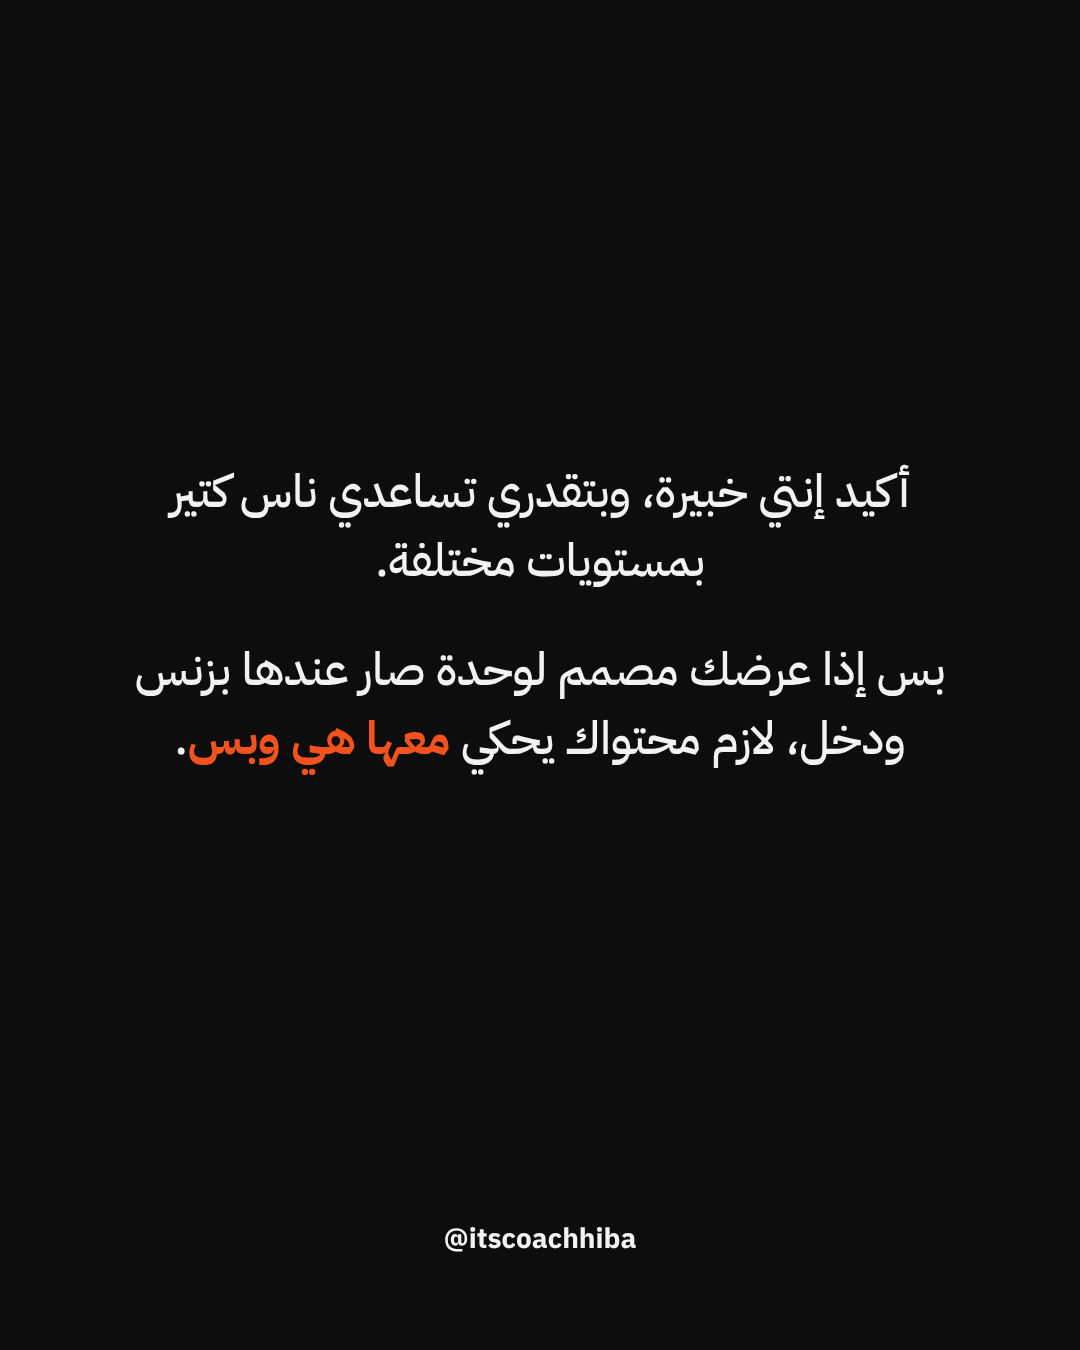
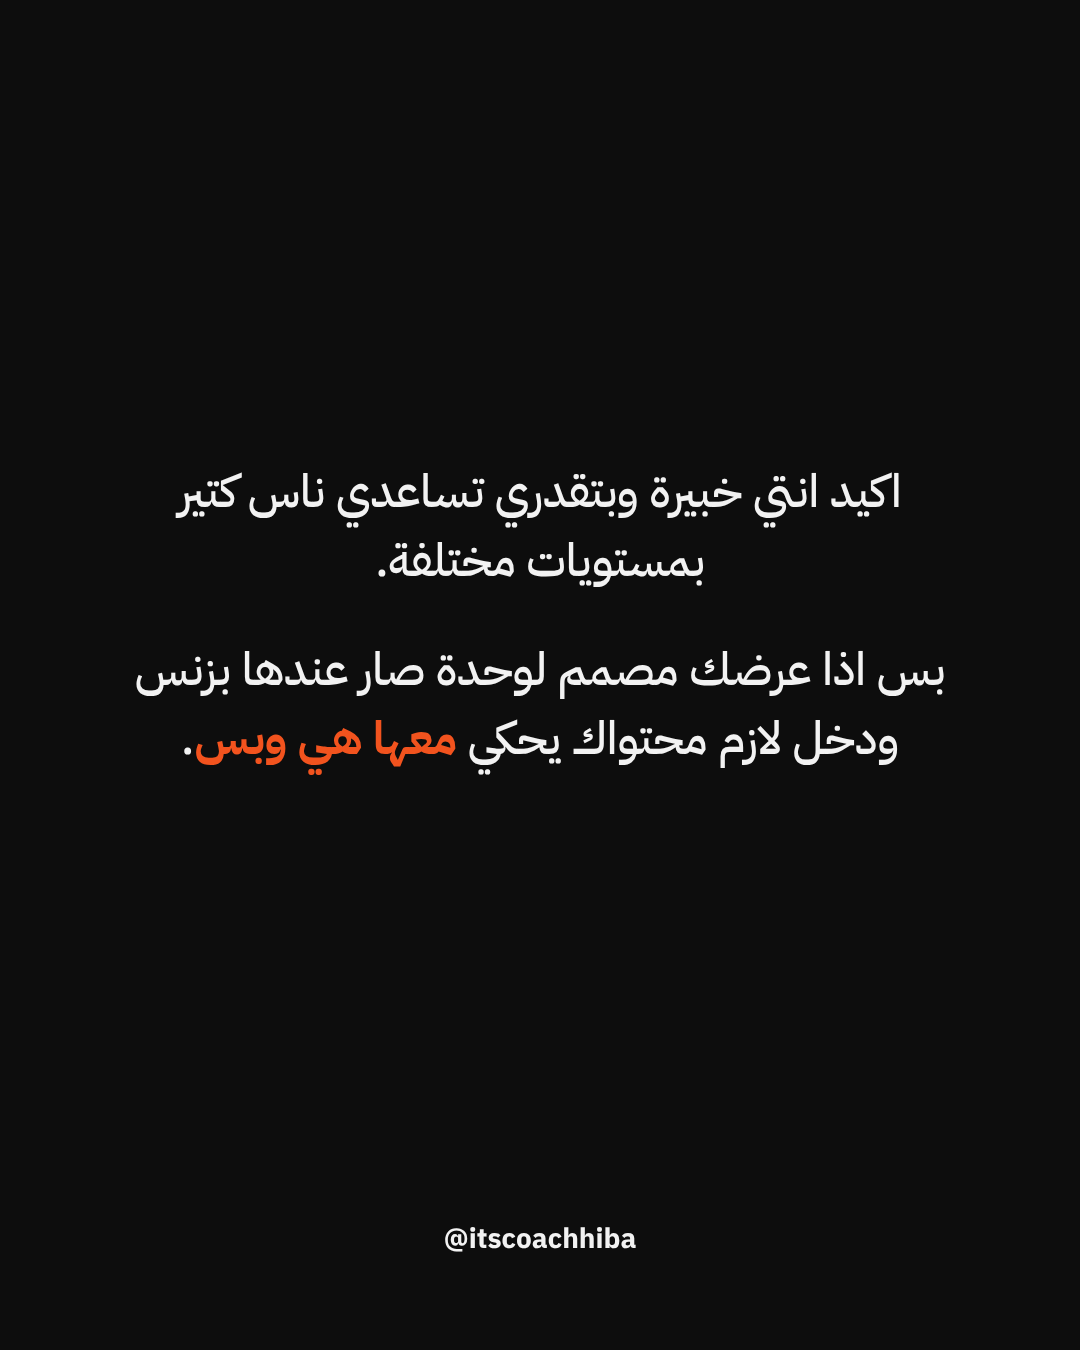
Carousel 20: remove hamza marks on alif and commas
Claude-Session: https://claude.ai/code/session_01Q3F4hydPDiJyjfKYRyCC3U

Changed region(s): [[0.1528, 0.3422, 0.8556, 0.4044], [0.1528, 0.5289, 0.8556, 0.5911]]

diff --git a/carousels/20-cant-afford-it-messaging/carousel.html b/carousels/20-cant-afford-it-messaging/carousel.html
@@ -12,4 +12,4 @@
 .txt b{font-weight:700}
 .txt em{font-style:normal;color:#F2531E;font-weight:700}
 .h{position:absolute;bottom:90px;left:0;right:0;text-align:center;font-weight:700;font-size:28px;color:#f2f2f2;direction:ltr}</style></head><body><section class="slide cover"><img src="cover.jpg"><div class="shade"></div>
-<h1>ليش العملاء اللي بيجوكي دايما بيقولولك <span>«سعرك غالي عليي»</span>؟</h1></section><section class="slide txt"><div class="box"><p>ما في شي أصعب من إنك تحكي مع وحدة باين عليها متحمسة تشتغل معك…</p><p>…وأول ما تقوليلها السعر، بتقلك «ما عندي إمكانية إني ادفع هالمبلغ».</p></div><div class="h">@itscoachhiba</div></section><section class="slide txt"><div class="box"><p>إذا صارت مرة أو مرتين… طبيعي.</p><p>بس إذا صارت كل شوي… بتبلشي تقنعي حالك إنو لازم تنزلي سعرك.</p><p>بس لاحظتي إنك حتى لما بتنزليه… <em>بيضلوا ما يشتروا؟</em></p><p><b>وهاد السبب.</b></p></div><div class="h">@itscoachhiba</div></section><section class="slide txt"><div class="box"><p>إنك تجذبي ناس ما بيقدروا يستثمروا، مش مشكلة بسعرك.</p><p>هي فعليا مشكلة <em>بالـ messaging</em> تبعك، بمحتواكي وببزنسك.</p><p>والرسالة الغلط بتجيبلك العميلات الغلط.</p></div><div class="h">@itscoachhiba</div></section><section class="slide txt"><div class="box"><p>يعني ممكن تكوني عم تعملي محتوى للناس اللي عرضك <em>بيقدر</em> يساعدهم…</p><p>بدل الناس اللي عرضك <em>انعمل إلهم</em>.</p><p>والفرق بين الاتنين كبير كتير.</p></div><div class="h">@itscoachhiba</div></section><section class="slide txt"><div class="box"><p>أكيد إنتي خبيرة، وبتقدري تساعدي ناس كتير بمستويات مختلفة.</p><p>بس إذا عرضك مصمم لوحدة صار عندها بزنس ودخل، لازم محتواك يحكي <em>معها هي وبس</em>.</p></div><div class="h">@itscoachhiba</div></section><section class="slide txt"><div class="box"><p>أول ما تفكري «ما بدي خسر حدا»… خسرتي.</p><p>لأنو رسالتك بتصير تحكي مع <em>الكل</em>:</p><p>اللي لسا مبلشة. اللي صار عندها خبرة. اللي جاهزة تستثمر. واللي لأ.</p></div><div class="h">@itscoachhiba</div></section><section class="slide txt"><div class="box"><p>هاد اللي ما بتنتبهله أغلب الأشخاص اللي عندهم خدمات أو منتجات رقمية…</p><p>العميلة اللي بدك ياها مشاكلها وأولوياتها وأهدافها <em>غير تماما</em> عن وحدة لسا عم تبلش.</p><p>وإذا رسالتك ما بتحكي عن <em>واقعها هي</em>، رح تضلي تجذبي الناس الغلط.</p></div><div class="h">@itscoachhiba</div></section><section class="slide txt"><div class="box"><p>الرسالة الواضحة والـ messaging الصح هي <em>أول شي</em> لازم تبلشي تغيريه.</p><p>وإذا بدك تعرفي كيف بالزبط بتقدري تبني براند شخصي قوي وتزيدي دخلك،</p><p>علقي بكلمة <em>«مكالمة»</em> لتحجزي مكالمة استشارية مجانية.</p></div><div class="h">@itscoachhiba</div></section></body></html>
+<h1>ليش العملاء اللي بيجوكي دايما بيقولولك <span>«سعرك غالي عليي»</span>؟</h1></section><section class="slide txt"><div class="box"><p>ما في شي اصعب من انك تحكي مع وحدة باين عليها متحمسة تشتغل معك…</p><p>…واول ما تقوليلها السعر بتقلك «ما عندي امكانية اني ادفع هالمبلغ».</p></div><div class="h">@itscoachhiba</div></section><section class="slide txt"><div class="box"><p>اذا صارت مرة او مرتين… طبيعي.</p><p>بس اذا صارت كل شوي… بتبلشي تقنعي حالك انو لازم تنزلي سعرك.</p><p>بس لاحظتي انك حتى لما بتنزليه… <em>بيضلوا ما يشتروا؟</em></p><p><b>وهاد السبب.</b></p></div><div class="h">@itscoachhiba</div></section><section class="slide txt"><div class="box"><p>انك تجذبي ناس ما بيقدروا يستثمروا مش مشكلة بسعرك.</p><p>هي فعليا مشكلة <em>بالـ messaging</em> تبعك بمحتواكي وببزنسك.</p><p>والرسالة الغلط بتجيبلك العميلات الغلط.</p></div><div class="h">@itscoachhiba</div></section><section class="slide txt"><div class="box"><p>يعني ممكن تكوني عم تعملي محتوى للناس اللي عرضك <em>بيقدر</em> يساعدهم…</p><p>بدل الناس اللي عرضك <em>انعمل الهم</em>.</p><p>والفرق بين الاتنين كبير كتير.</p></div><div class="h">@itscoachhiba</div></section><section class="slide txt"><div class="box"><p>اكيد انتي خبيرة وبتقدري تساعدي ناس كتير بمستويات مختلفة.</p><p>بس اذا عرضك مصمم لوحدة صار عندها بزنس ودخل لازم محتواك يحكي <em>معها هي وبس</em>.</p></div><div class="h">@itscoachhiba</div></section><section class="slide txt"><div class="box"><p>اول ما تفكري «ما بدي خسر حدا»… خسرتي.</p><p>لانو رسالتك بتصير تحكي مع <em>الكل</em>:</p><p>اللي لسا مبلشة. اللي صار عندها خبرة. اللي جاهزة تستثمر. واللي لا.</p></div><div class="h">@itscoachhiba</div></section><section class="slide txt"><div class="box"><p>هاد اللي ما بتنتبهله اغلب الاشخاص اللي عندهم خدمات او منتجات رقمية…</p><p>العميلة اللي بدك ياها مشاكلها واولوياتها واهدافها <em>غير تماما</em> عن وحدة لسا عم تبلش.</p><p>واذا رسالتك ما بتحكي عن <em>واقعها هي</em> رح تضلي تجذبي الناس الغلط.</p></div><div class="h">@itscoachhiba</div></section><section class="slide txt"><div class="box"><p>الرسالة الواضحة والـ messaging الصح هي <em>اول شي</em> لازم تبلشي تغيريه.</p><p>واذا بدك تعرفي كيف بالزبط بتقدري تبني براند شخصي قوي وتزيدي دخلك</p><p>علقي بكلمة <em>«مكالمة»</em> لتحجزي مكالمة استشارية مجانية.</p></div><div class="h">@itscoachhiba</div></section></body></html>

diff --git a/carousels/20-cant-afford-it-messaging/build.py b/carousels/20-cant-afford-it-messaging/build.py
@@ -30,6 +30,11 @@ slides = [
      f"علقي بكلمة {o('«مكالمة»')} لتحجزي مكالمة استشارية مجانية."],
 ]
 
+import re
+def clean(t):
+    t = re.sub("[أإآ]", "ا", t)
+    return t.replace("،", "").replace(", ", " ").replace(",", "")
+slides = [[clean(p) for p in ps] for ps in slides]
 html = ['''<section class="slide cover"><img src="cover.jpg"><div class="shade"></div>
 <h1>ليش العملاء اللي بيجوكي دايما بيقولولك <span>«سعرك غالي عليي»</span>؟</h1></section>''']
 for ps in slides:
